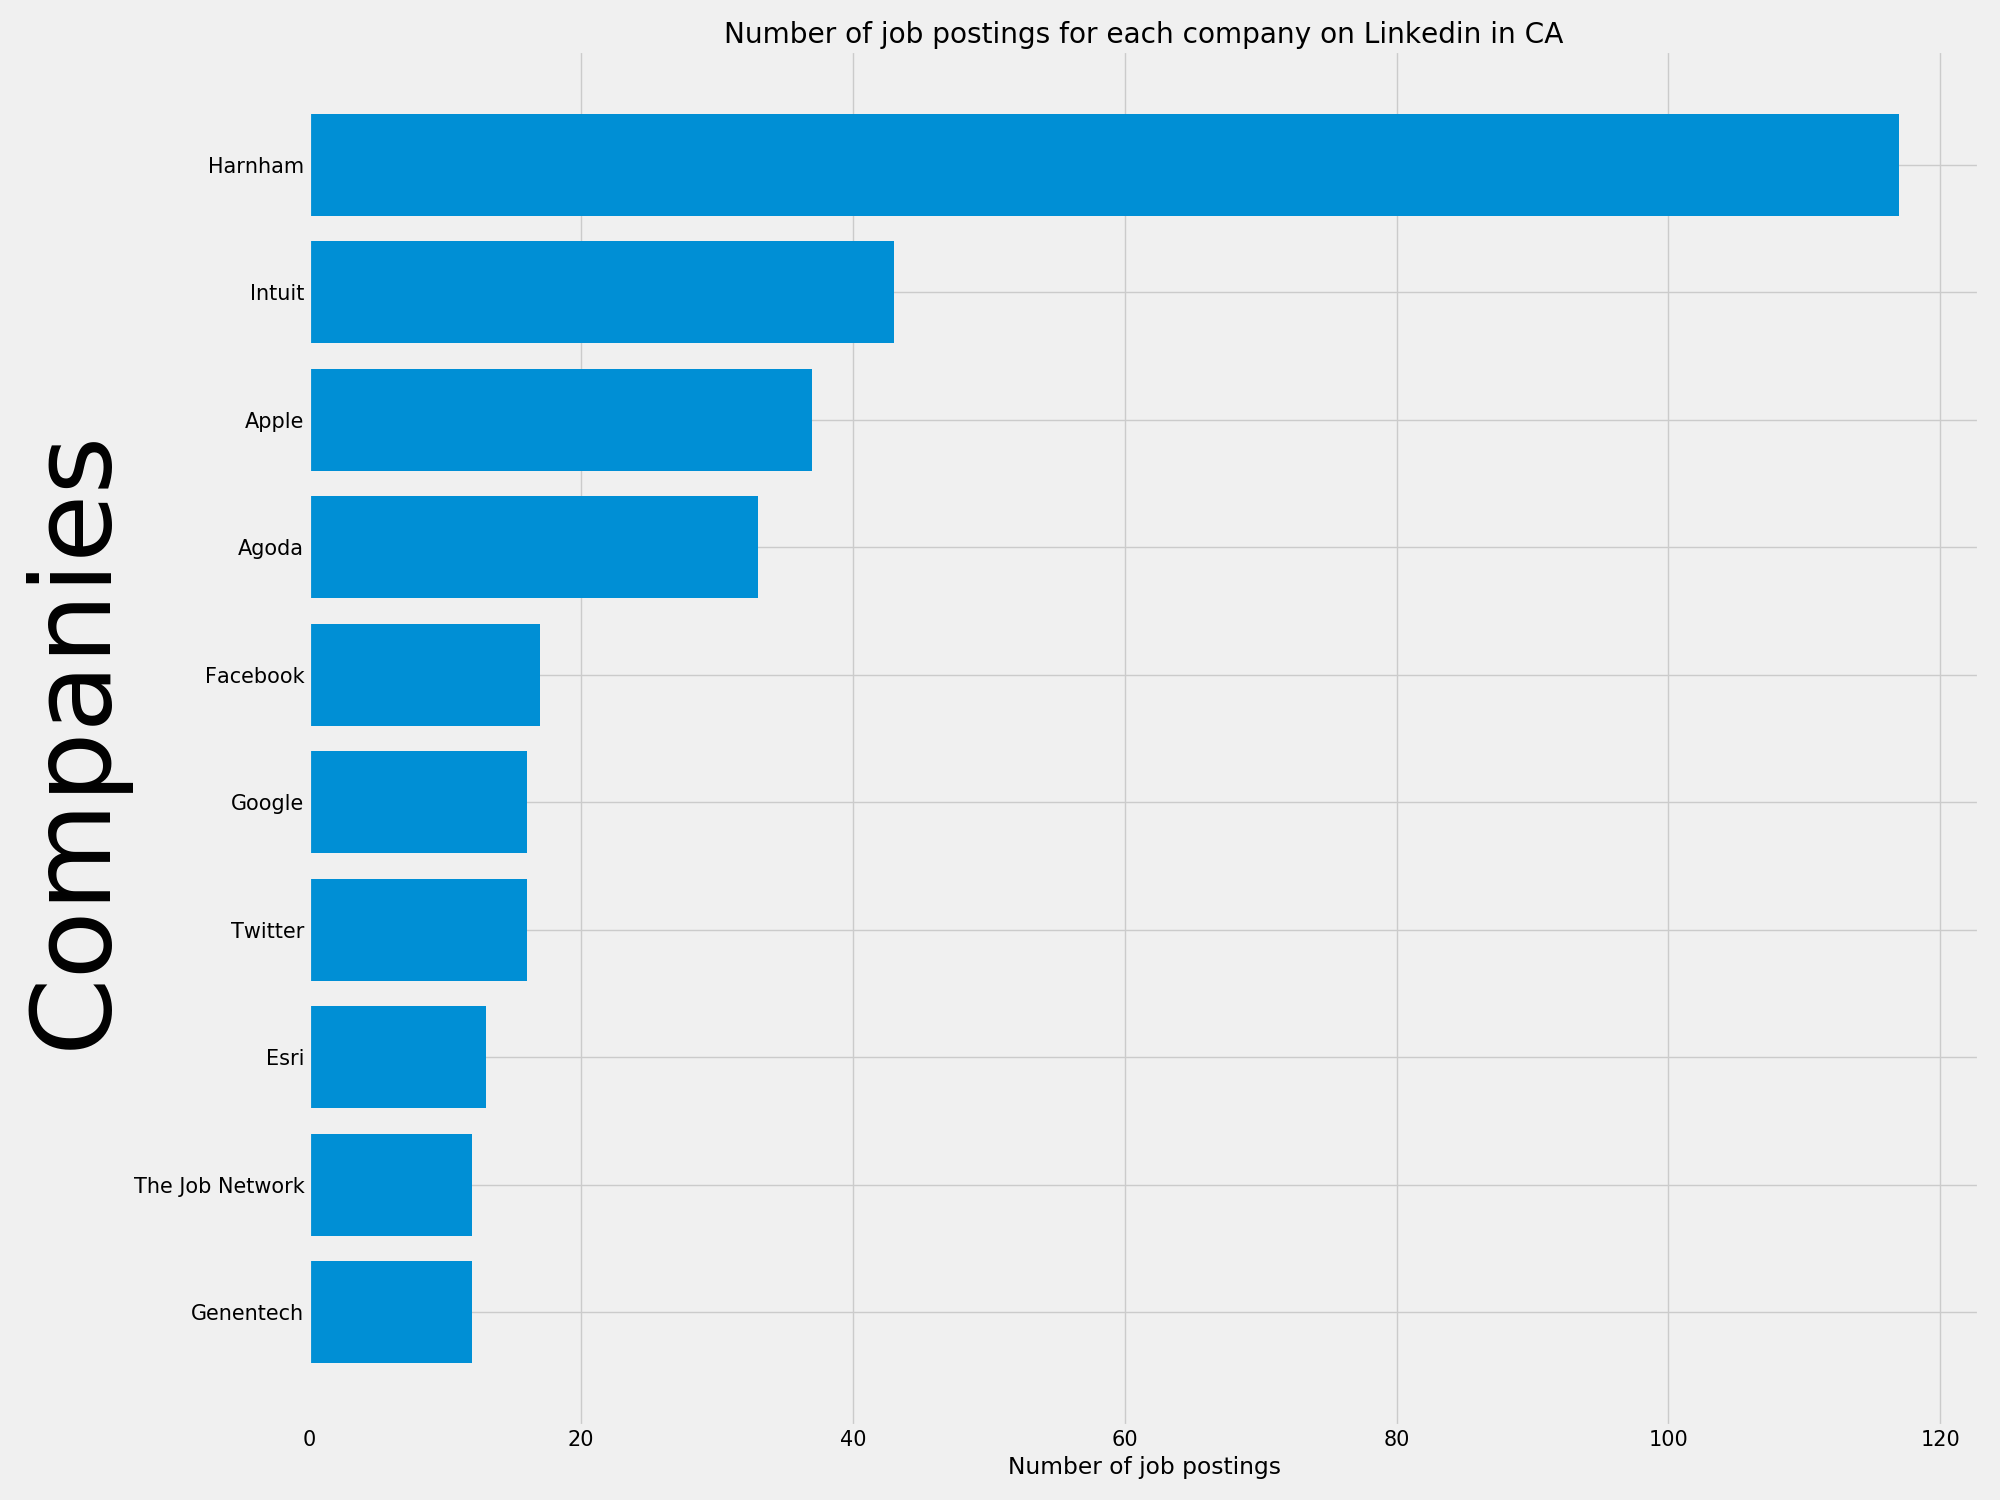
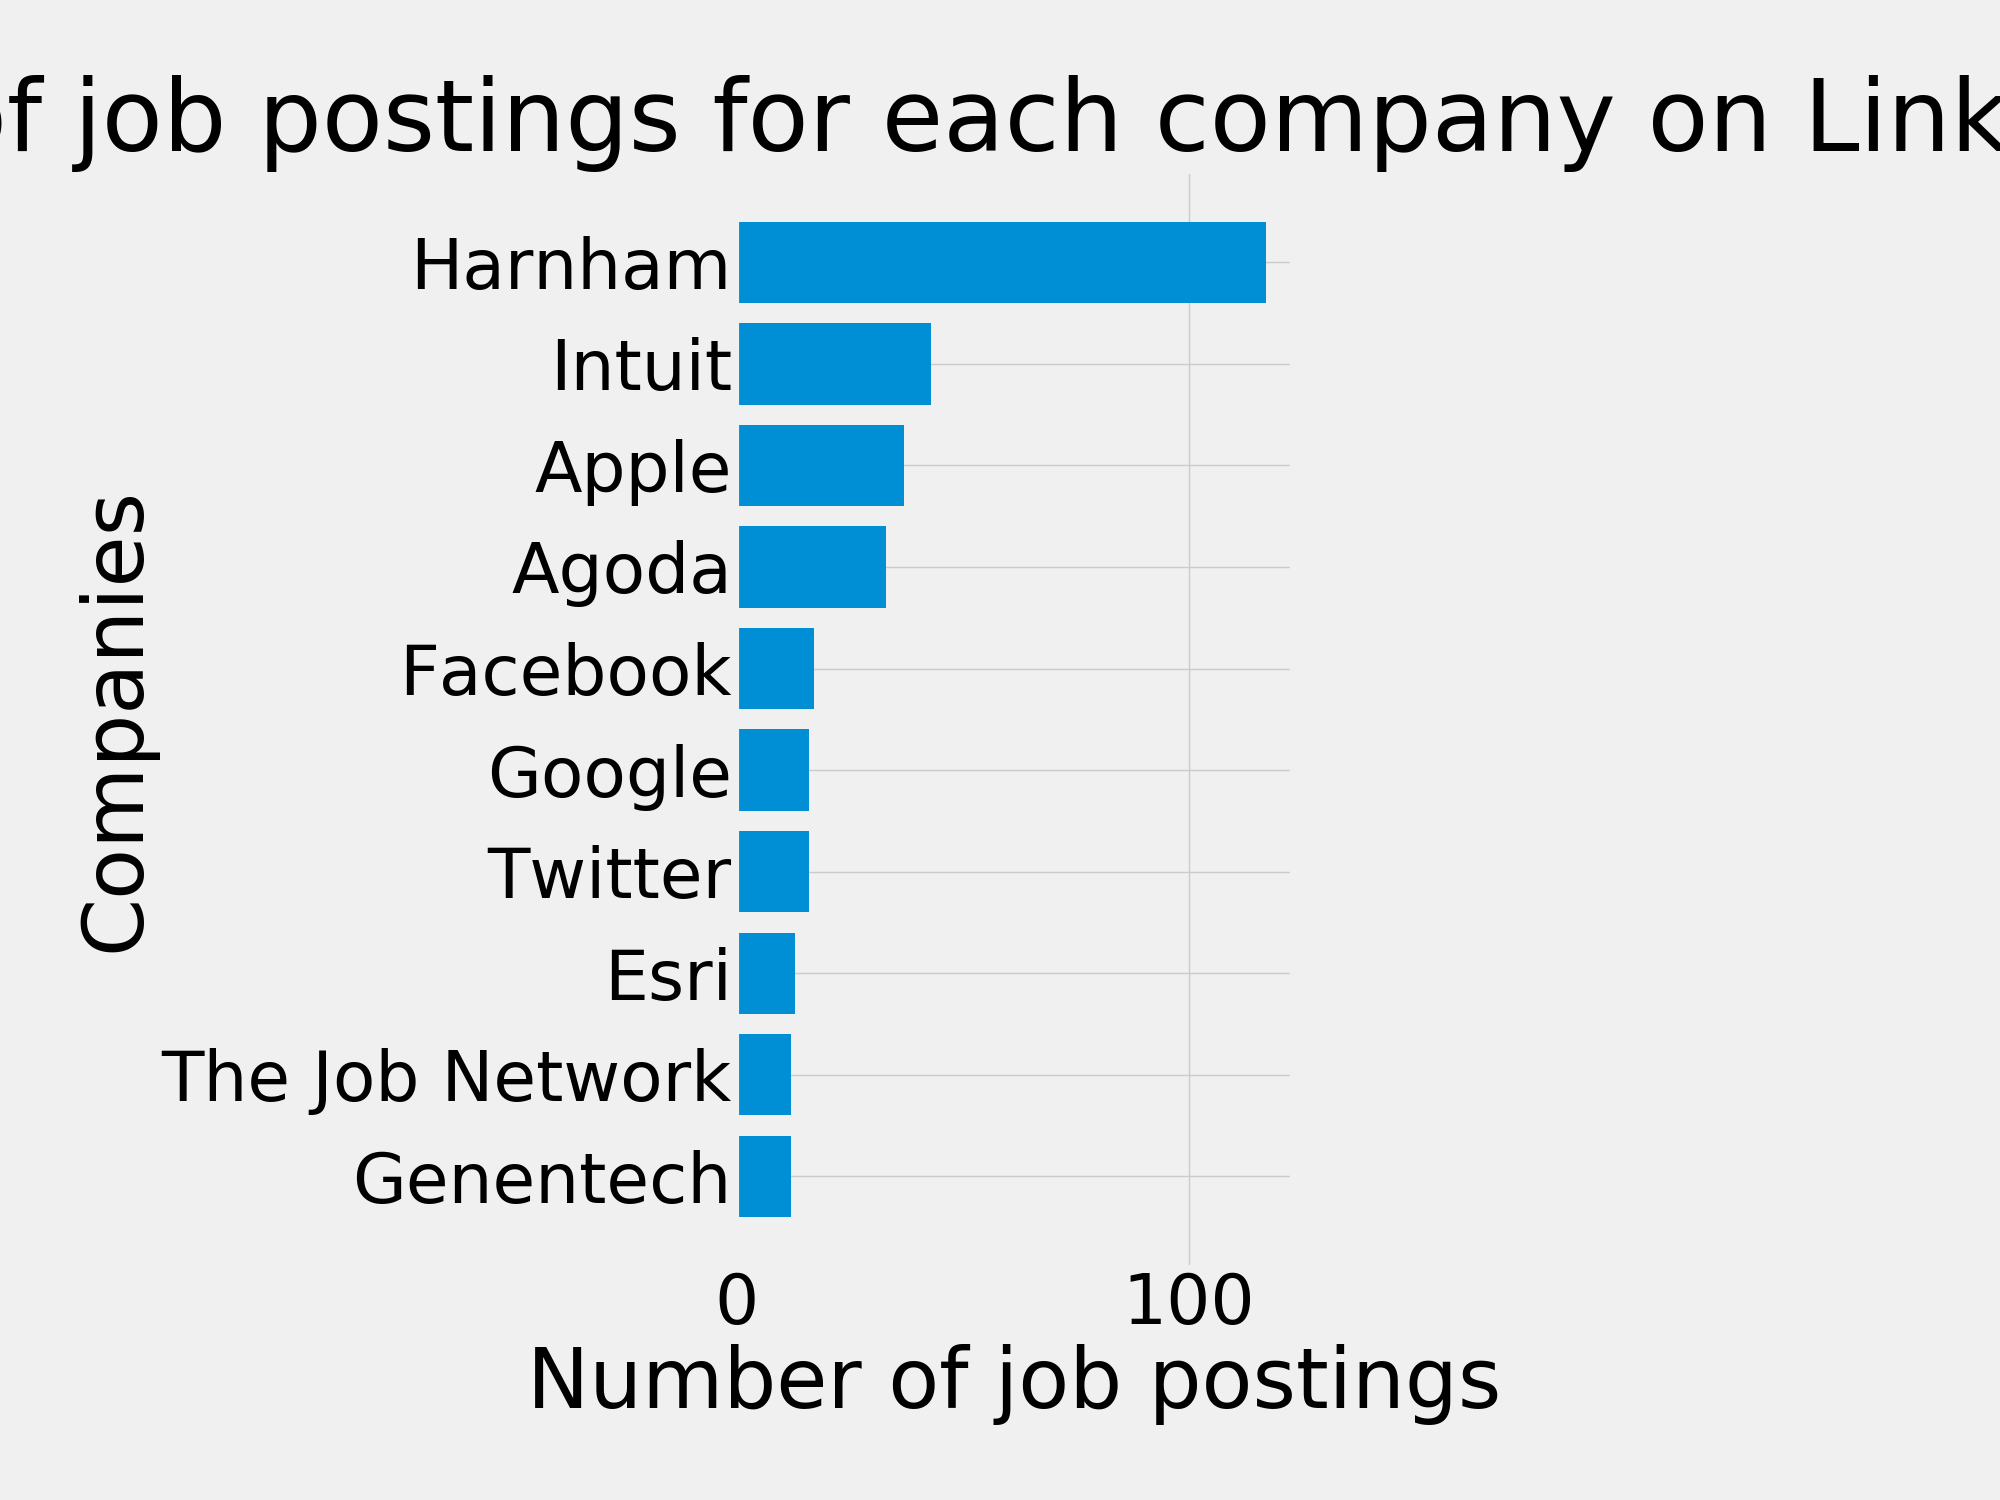
Messing with last graphs

Changed region(s): [[0.0, 0.0613, 1.0, 0.9813], [0.0, 0.276, 0.093, 0.7053], [0.372, 0.0, 0.775, 0.0307]]

diff --git a/src/graphing_eda.py b/src/graphing_eda.py
@@ -119,14 +119,14 @@ def graph_top10_companies(state_id):
 
     jobs_state = df_all_state['Company'].value_counts().values[:10]
     jobs_state = jobs_state[::-1]
+    plt.rcParams.update({'font.size': 50})
 
     fig, ax = plt.subplots(figsize=(20,15))
     ax.barh(companies_state, jobs_state)
 
     ax.set_xlabel('Number of job postings')
-    ax.set_ylabel('Companies', fontsize=80)
+    ax.set_ylabel('Companies')
     ax.set_title(f'Number of job postings for each company on Linkedin in {state_id}')
-    ax.tick_params(labelsize = 15)
     
     plt.tight_layout()
     plt.savefig(f'../imgs/linkedin_top_companies_num_job_postings_per_{state_id}.png')
